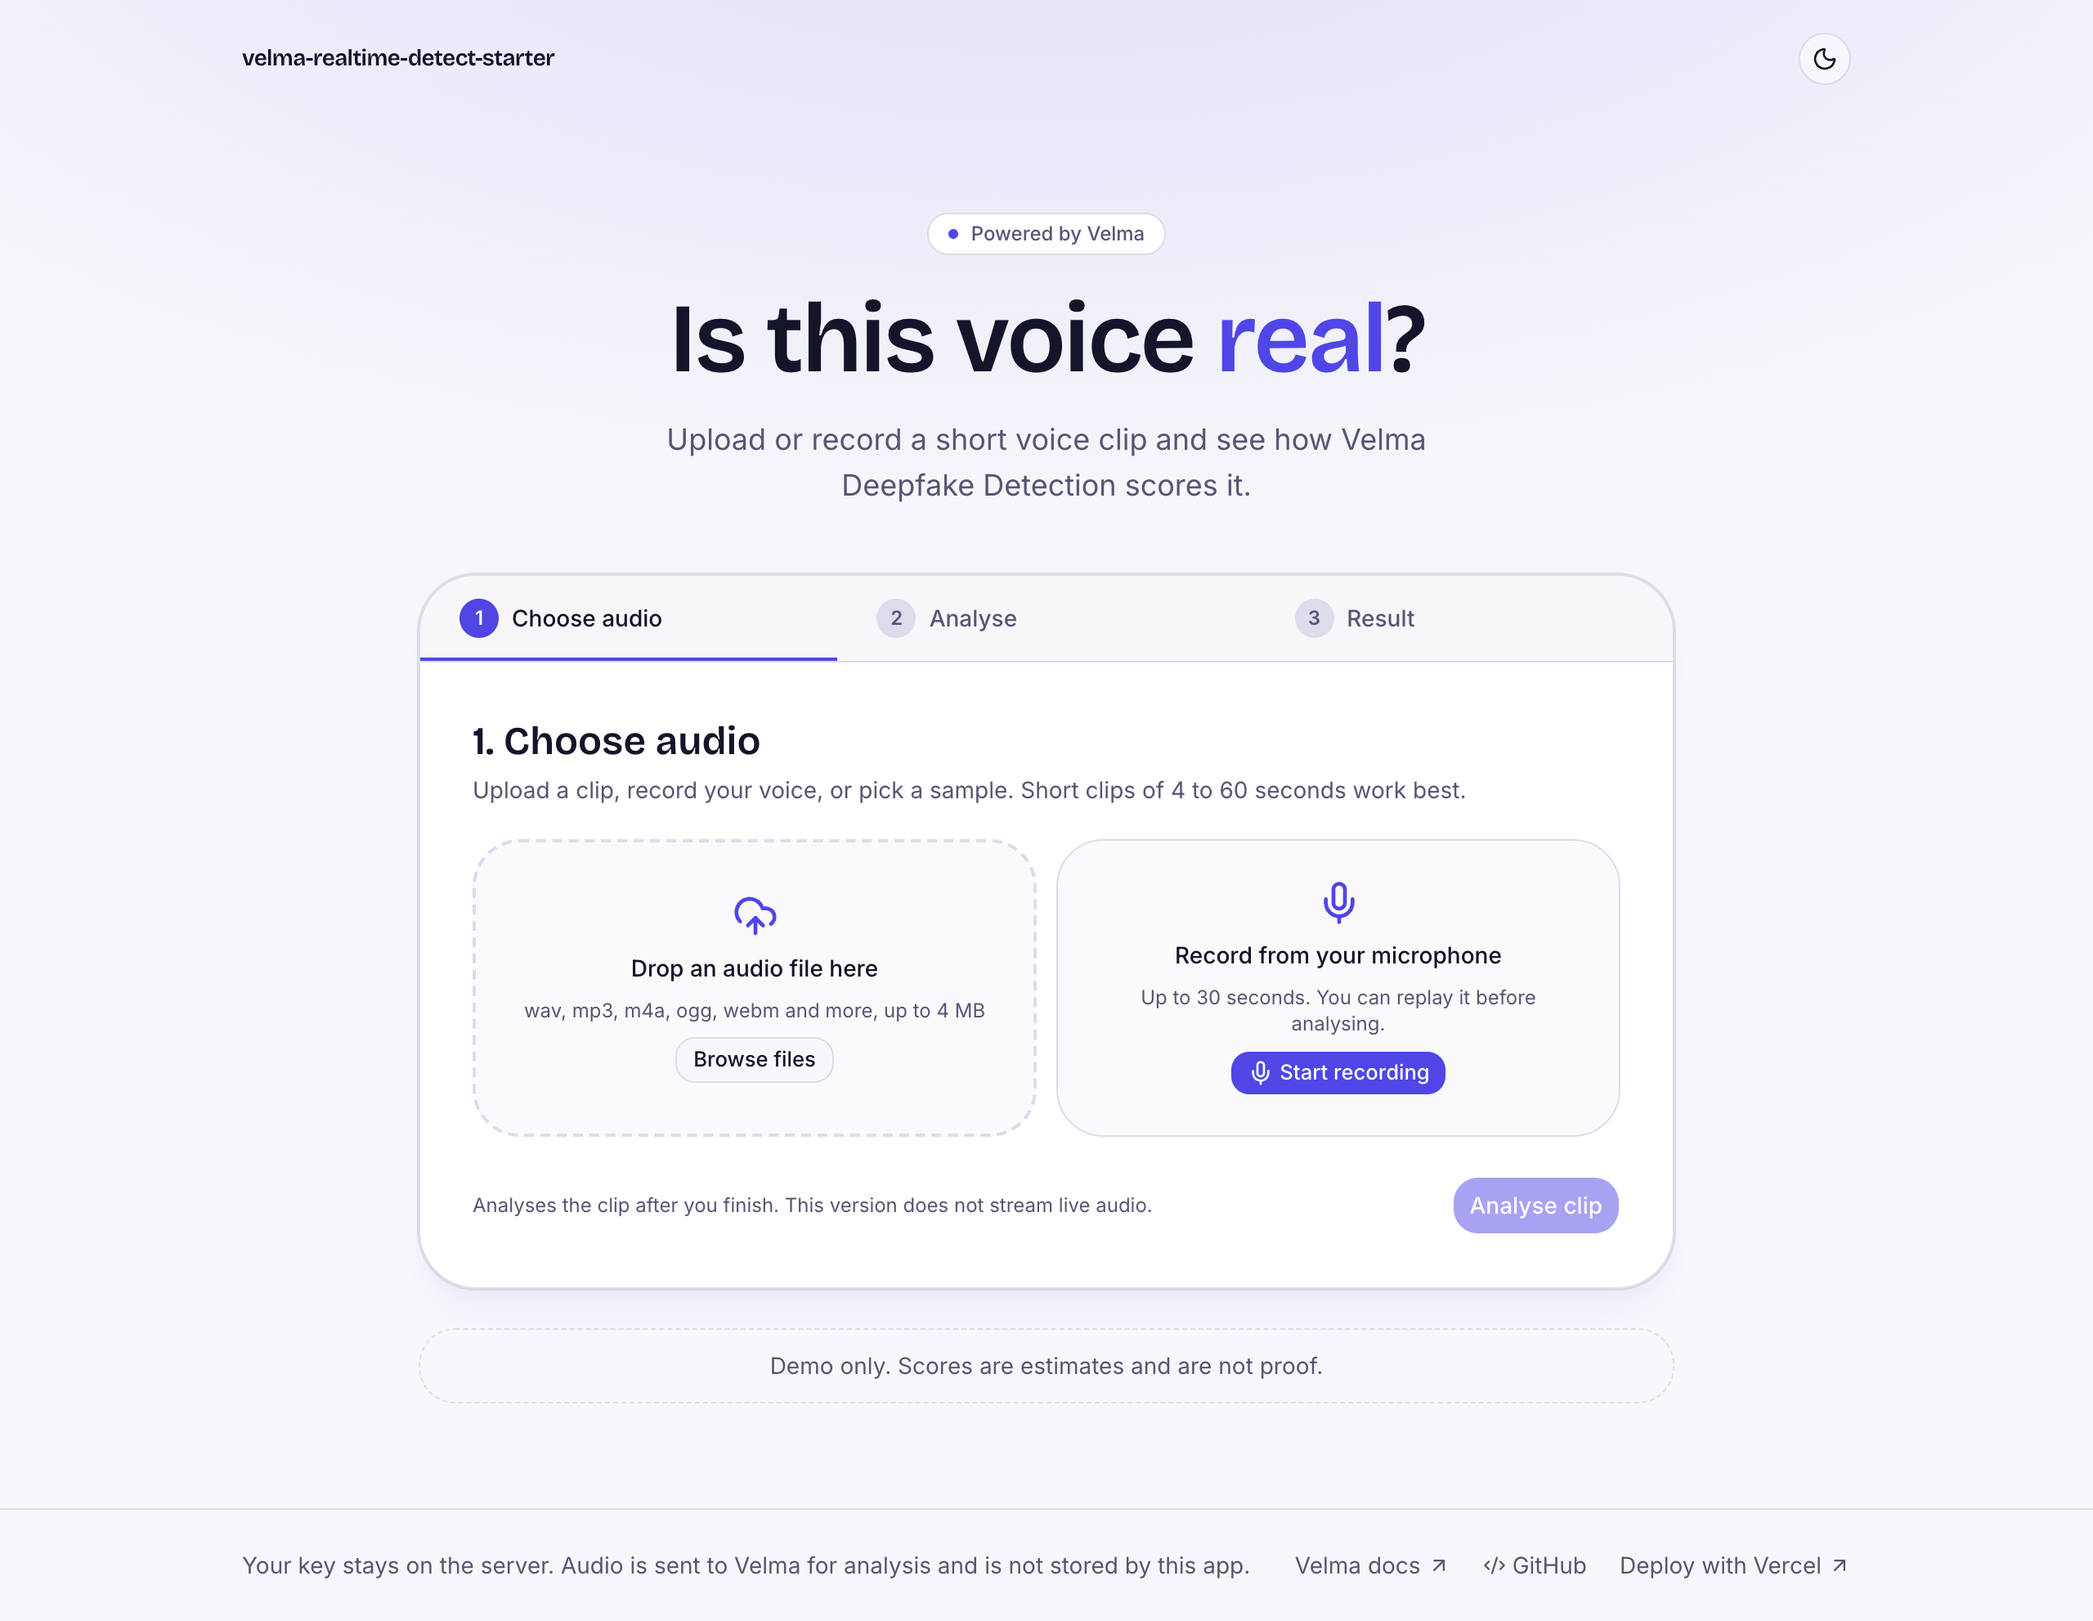
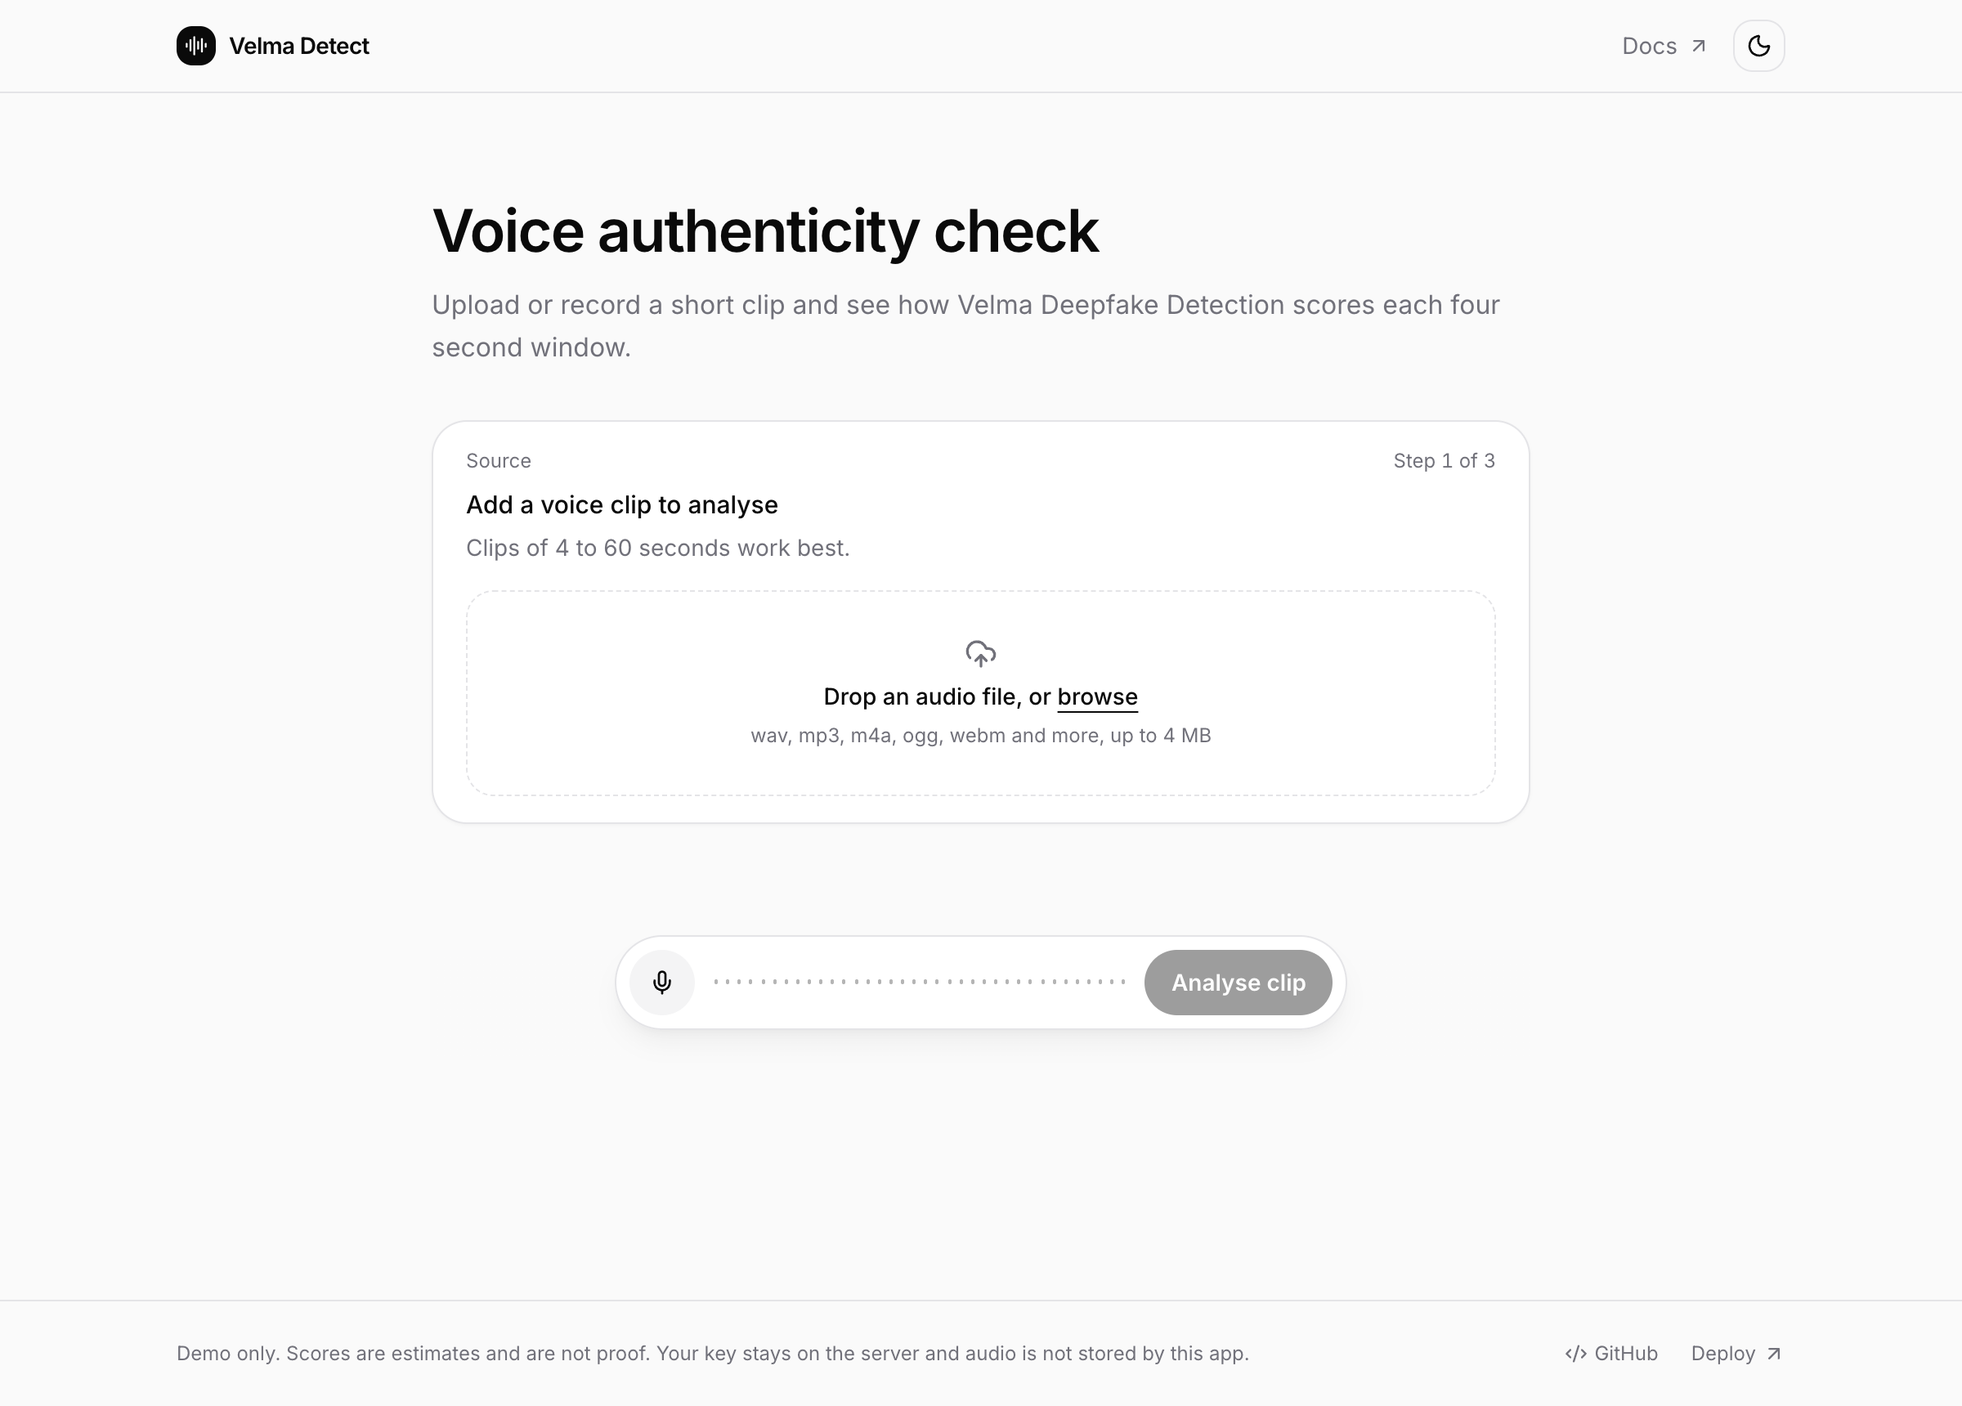
Polish app and README: pill above footer, full-width confidence bars, metrics and windowing docs, new screenshots
- Control pill is now sticky and rests above the footer instead of covering it
- Window confidence bars span the full card width
- Rename verdict metric to Avg confidence
- README: Mermaid sequence diagram, windowing section, metrics and confidence
  explained with formulas and worked examples, corrected project structure
- Remove unsupported 'two seconds of overlap' claim (Velma docs show contiguous 4 s windows)
- Replace stale wizard-era screenshots with ones from the current UI

diff --git a/components/detector.tsx b/components/detector.tsx
@@ -241,7 +241,7 @@ export function Detector() {
 
   return (
     <div className="mx-auto w-full max-w-2xl">
-      <div className="space-y-3 pb-36">
+      <div className="space-y-3 pb-6">
         <AnimatePresence mode="popLayout" initial={false}>
           {/* source card */}
           {phase !== "result" && (
@@ -352,7 +352,7 @@ export function Detector() {
                     <div className="mt-5 grid grid-cols-1 gap-x-6 gap-y-4 sm:grid-cols-3">
                       <Metric label="Natural" value={pct} bar="bg-real" />
                       <Metric label="Synthetic" value={syntheticPct} bar="bg-synthetic" />
-                      <Metric label="Confidence" value={confPct} bar="bg-foreground/60" />
+                      <Metric label="Avg confidence" value={confPct} bar="bg-foreground/60" />
                     </div>
                   </>
                 ) : (
@@ -403,8 +403,8 @@ export function Detector() {
         <span className="sr-only" aria-live="polite">{speech.length ? `${speech.length} speech windows scored` : ""}</span>
       </div>
 
-      {/* floating control pill */}
-      <div className="pointer-events-none fixed inset-x-0 bottom-0 z-20 flex justify-center bg-gradient-to-t from-background via-background/90 to-transparent px-4 pb-6 pt-10">
+      {/* control pill: sticks to the viewport bottom while scrolling, then rests above the footer */}
+      <div className="pointer-events-none sticky bottom-0 z-20 flex justify-center bg-gradient-to-t from-background via-background/90 to-transparent px-4 pb-4 pt-8">
         <div className="pointer-events-auto flex w-full max-w-md items-center gap-3 rounded-full border bg-card/95 p-2 pl-2 shadow-lg shadow-black/5 backdrop-blur">
           <button type="button" onClick={recording ? stopRecording : startRecording}
             disabled={phase !== "choose" || decoding}
@@ -488,7 +488,7 @@ function WindowCard({ frame, index }: { frame: VelmaFrame; index: number }) {
     <MsgCard label={`Window ${index + 1}`} meta={range}>
       <p className="text-[15px] font-medium">{v.name}</p>
       {frame.verdict !== "no-content" && (
-        <div className="mt-3 max-w-[16rem]">
+        <div className="mt-3">
           <Metric label="Confidence" value={frame.confidence * 100} bar={v.bar} />
         </div>
       )}

diff --git a/app/page.tsx b/app/page.tsx
@@ -35,7 +35,7 @@ export default function Home() {
       </main>
 
       <footer className="border-t">
-        <div className="mx-auto flex max-w-5xl flex-wrap items-center justify-between gap-3 px-5 py-6 pb-28 text-xs text-muted-foreground">
+        <div className="mx-auto flex max-w-5xl flex-wrap items-center justify-between gap-3 px-5 py-6 text-xs text-muted-foreground">
           <p>Demo only. Scores are estimates and are not proof. Your key stays on the server and audio is not stored by this app.</p>
           <nav className="flex items-center gap-x-5" aria-label="Footer">
             <a className={link} href={REPO} target="_blank" rel="noreferrer"><Code2 className="size-3.5" /> GitHub</a>

diff --git a/README.md b/README.md
@@ -12,7 +12,7 @@ A small Next.js app that sends a voice clip to Modulate's Velma Deepfake Detecti
   <img src="docs/screenshots/step3-result-desktop-light.png" alt="Step 3, result" width="80%">
 </p>
 
-The result screenshots use a clip made with a text-to-speech voice, so the clip is synthetic by construction.
+The result screenshots use a clip made with the macOS text-to-speech voice, so the clip is synthetic by construction. They come from a real call to Velma, not mock data.
 
 > Demo only. Scores are estimates and are not proof.
 
@@ -22,8 +22,10 @@ The result screenshots use a clip made with a text-to-speech voice, so the clip 
 - [Run locally](#run-locally)
 - [Environment variables](#environment-variables)
 - [How it works](#how-it-works)
+- [How a clip is split into windows](#how-a-clip-is-split-into-windows)
 - [How the key is protected](#how-the-key-is-protected)
-- [Reading the result](#reading-the-result)
+- [Metrics: natural, synthetic and confidence](#metrics-natural-synthetic-and-confidence)
+- [From windows to a label](#from-windows-to-a-label)
 - [Batch or streaming](#batch-or-streaming)
 - [Limits and rate limiting](#limits-and-rate-limiting)
 - [Add sample clips](#add-sample-clips)
@@ -63,17 +65,26 @@ Other scripts: `pnpm lint`, `pnpm exec tsc --noEmit`, `pnpm build`, `pnpm start`
 
 ## How it works
 
+```mermaid
+sequenceDiagram
+    autonumber
+    actor U as Browser
+    participant A as Next.js API route<br/>/api/detect
+    participant V as Velma<br/>batch endpoint
+
+    U->>U: Pick, drop or record audio
+    U->>A: POST multipart "file"
+    A->>A: Validate type and size (4 MB)
+    A->>A: Rate limit per IP (6 per minute)
+    A->>V: POST upload_file<br/>X-API-Key from server env
+    V->>V: Trim edge silence, cut into 4 s windows
+    V-->>A: JSON frames: verdict + confidence per window
+    A->>A: interpret(): drop no-content, time-weight the rest
+    A-->>U: frames + summary (natural share, confidence, label)
+    U->>U: Render verdict, timeline and window cards
 ```
-Browser                    Next.js API route               Velma
--------                    -----------------               -----
-pick or record audio
-  |  POST /api/detect  --> validate type and size
-  |  (multipart "file")    rate limit per IP
-  |                        POST upload_file  ------------> batch endpoint
-  |                        X-API-Key: <server env>         per-frame verdicts
-  |  <-- cleaned result <-- summarise frames  <----------- JSON
-render meter + timeline
-```
+
+The browser never sees the API key and never talks to Velma directly.
 
 The route calls the batch endpoint documented at [docs.modulate.ai/api-reference/svd/batch](https://docs.modulate.ai/api-reference/svd/batch):
 
@@ -90,25 +101,79 @@ Velma accepts `webm`, `ogg`, `opus`, `wav`, `mp3`, `m4a` and many other containe
 - The key is never logged and never included in a response.
 - `.env.local` is in `.gitignore`. Only `.env.example` with an empty value is committed.
 
-## Reading the result
+## How a clip is split into windows
 
-Velma does not return a single fake score. For every four second window (two seconds of overlap) it returns a **verdict** (`synthetic`, `non-synthetic` or `no-content`) and a **confidence** in that verdict. Confidence is how sure Velma is of the verdict it gave. It is not the probability that the audio is synthetic.
+Velma does the splitting, not this app. The batch endpoint processes the file from start to finish in fixed **4 second windows** (its docs call them frames):
 
-This app turns the windows into one clip-level reading:
+```mermaid
+flowchart LR
+    A["Uploaded clip"] --> B["Trim leading and<br/>trailing silence"]
+    B --> C["Cut into contiguous<br/>4 s windows"]
+    C --> D["Pad the last window<br/>if shorter than 4 s"]
+    D --> E["Score each window:<br/>verdict + confidence"]
+    E --> F["Frames returned<br/>with start and end ms"]
+```
 
-1. Drop `no-content` windows, as the Velma docs advise.
-2. Work out the share of the remaining speech time that was `non-synthetic`.
-3. Show that share on the meter and map it to a label.
+- Windows are back to back: `0:00 – 0:04`, `0:04 – 0:08`, `0:08 – 0:12` and so on. Timestamps refer to the original file, so trimmed silence does not shift them.
+- Audio shorter than 4 seconds is padded before scoring. Velma needs at least 0.5 seconds, and 4 to 60 seconds is recommended.
+- A window with no usable speech gets the verdict `no-content` with confidence `1.0`. This is assigned before the model runs, so silence is never guessed at.
+- A 12 second clip of speech therefore yields about 3 windows. A 32 second clip with 16 seconds of speech can yield 8 windows, with the silent ones marked `no-content`.
+
+The app shows one **window card** per frame (verdict, time range and confidence bar) and a **timeline** that lays the windows out in order. In the timeline each segment is as wide as its window, coloured by verdict, and brighter when Velma is more confident.
+
+Source: [Velma Deepfake Detection docs](https://docs.modulate.ai/get-started/deepfake).
+
+## Metrics: natural, synthetic and confidence
+
+Velma does not return a single fake score. Every window carries a **verdict** (`synthetic`, `non-synthetic` or `no-content`) and a **confidence** from 0 to 1 in that verdict. The app combines the windows into the metrics on the Verdict card.
+
+| Metric | What it means | How it is computed |
+|---|---|---|
+| **Window verdict** | Velma's call for one 4 s window | Returned by Velma |
+| **Window confidence** | How sure Velma is of *that verdict*, 0 to 1 | Returned by Velma |
+| **Natural** | Share of detected speech judged `non-synthetic` | Time-weighted share over speech windows |
+| **Synthetic** | Share of detected speech judged `synthetic` | `1 − Natural` |
+| **Avg confidence** | Typical certainty across the clip | Time-weighted mean of window confidence over speech windows |
+| **Speech seconds** | How much audio was actually scored | Sum of speech window lengths |
+
+```text
+speech      = windows whose verdict is not "no-content"
+Natural     = Σ length(non-synthetic windows) / Σ length(speech windows)
+Synthetic   = 1 − Natural
+AvgConf     = Σ confidence × length / Σ length          (speech windows only)
+```
+
+### Confidence is not a fake score
+
+Confidence says how certain Velma is about the verdict it gave. It is **not** the probability that the audio is synthetic.
+
+- `non-synthetic` at `0.97` means Velma is 97% sure the speech is natural.
+- `synthetic` at `0.97` means Velma is 97% sure the speech is synthetic. It does not mean "3% fake".
+- That is why the first screenshot below reads **Natural 0.00, Synthetic 1.00, Avg confidence 0.97**: the clip is judged fully synthetic, and Velma is very sure about it.
+- Avg confidence says nothing about direction. Read it together with Natural and Synthetic.
+
+### Worked examples
+
+| Clip | Windows (verdict @ confidence) | Natural | Synthetic | Avg confidence |
+|---|---|---|---|---|
+| Text-to-speech voice, 12 s | 3 × synthetic @ 0.97 | 0.00 | 1.00 | 0.97 |
+| Real voice, 8 s | 2 × non-synthetic @ 0.92 | 1.00 | 0.00 | 0.92 |
+| Mixed, 8 s | non-synthetic @ 0.90, synthetic @ 0.70 | 0.50 | 0.50 | 0.80 |
+| 16 s of speech in a 32 s file | 4 × synthetic @ 0.97, 4 × no-content | 0.00 | 1.00 | 0.97 (silence excluded) |
+
+The `no-content` windows never count towards Natural, Synthetic or Avg confidence. If every window is `no-content`, the app reports "No speech detected" instead of a score.
+
+## From windows to a label
 
 Modulate does not publish a clip-level threshold and advises setting one against your own labelled recordings. The cut-offs in [`lib/interpret.ts`](lib/interpret.ts) are demo defaults chosen for this repo, not Modulate values:
 
-| Share of speech judged non-synthetic | Label |
+| Natural share of speech | Label |
 |---|---|
 | 75% or more | Likely real |
 | Between 25% and 75% | Unsure |
 | 25% or less | Likely synthetic |
 
-Change `LIKELY_REAL_MIN` and `LIKELY_SYNTHETIC_MAX` to suit your data.
+Change `LIKELY_REAL_MIN` and `LIKELY_SYNTHETIC_MAX` to suit your data. The label uses only the Natural share. Confidence does not move a clip between labels, it is shown so you can judge how firm each call is.
 
 Modulate publishes accuracy results for the model on the [Deepfake Detection benchmark page](https://docs.modulate.ai/benchmarks/deepfake-detection). This repo does not make accuracy claims of its own.
 
@@ -159,34 +224,41 @@ Only add clips you recorded yourself or whose licence allows public redistributi
 
 ## Project structure
 
-```
-app/
-  api/detect/route.ts   server route: validate, rate limit, call Velma
-  layout.tsx            fonts and theme
-  page.tsx              hero, step card, footer
-components/
-  detector.tsx          the 3-step flow
-  gauge.tsx             animated meter
-  waveform.tsx          SVG waveform
-  theme-toggle.tsx      light and dark
-  ui/                   shadcn/ui primitives
-lib/
-  velma.ts              endpoint, formats, limits, response types
-  interpret.ts          frames to clip-level label
-  rate-limit.ts         in-memory limiter
-  audio.ts              waveform decoding and recording helpers
-public/samples/         manifest.json and your clips
-docs/screenshots/       UI screenshots
+```text
+modulate-repo-2/
+├── app/
+│   ├── api/detect/route.ts     server route: validate, rate limit, call Velma, summarise
+│   ├── layout.tsx              fonts and theme
+│   ├── page.tsx                header, hero, detector, footer
+│   └── globals.css             Tailwind and colour tokens (light and dark)
+├── components/
+│   ├── detector.tsx            upload/record, control pill, verdict, timeline, window cards
+│   ├── waveform.tsx            SVG waveform and the dotted voice bar
+│   ├── theme-toggle.tsx        light and dark switch
+│   └── ui/                     shadcn/ui primitives (button, card, collapsible)
+├── lib/
+│   ├── velma.ts                endpoint, allowed formats, limits, response types
+│   ├── interpret.ts            windows to Natural, Synthetic, confidence and label
+│   ├── rate-limit.ts           in-memory per-IP limiter
+│   ├── audio.ts                waveform decoding and recording helpers
+│   └── utils.ts                class name helper
+├── public/samples/             manifest.json and your sample clips
+├── docs/screenshots/           UI screenshots used in this README
+├── assets/banner.png           README banner
+├── .env.example                VELMA_API_KEY placeholder
+└── LICENSE                     MIT
 ```
 
 ## Screenshots
+
+The control pill stays at the bottom of the screen while you scroll, then rests above the footer at the end of the page.
 
 | | Light | Dark |
 |---|---|---|
 | Desktop | [home](docs/screenshots/home-desktop-light.png) | [home](docs/screenshots/home-desktop-dark.png) |
 | Mobile | [home](docs/screenshots/home-mobile-light.png) | [home](docs/screenshots/home-mobile-dark.png) |
 
-Steps and states: [result, light](docs/screenshots/step3-result-desktop-light.png), [result, dark](docs/screenshots/step3-result-desktop-dark.png), [result, mobile](docs/screenshots/step3-result-mobile-light.png), [choose, empty](docs/screenshots/step1-choose-empty.png), [choose, ready](docs/screenshots/step1-choose-ready.png), [analysing](docs/screenshots/step2-analysing.png), [missing key](docs/screenshots/error-missing-key.png), [bad file](docs/screenshots/error-bad-file.png), [mic denied](docs/screenshots/error-mic-denied.png).
+Steps and states: [result, light](docs/screenshots/step3-result-desktop-light.png), [result, dark](docs/screenshots/step3-result-desktop-dark.png), [result, mobile](docs/screenshots/step3-result-mobile-light.png), [pill above footer](docs/screenshots/result-pill-above-footer.png), [choose, ready](docs/screenshots/step1-choose-ready.png), [analysing](docs/screenshots/step2-analysing.png), [bad file](docs/screenshots/error-bad-file.png).
 
 ## Links
 
